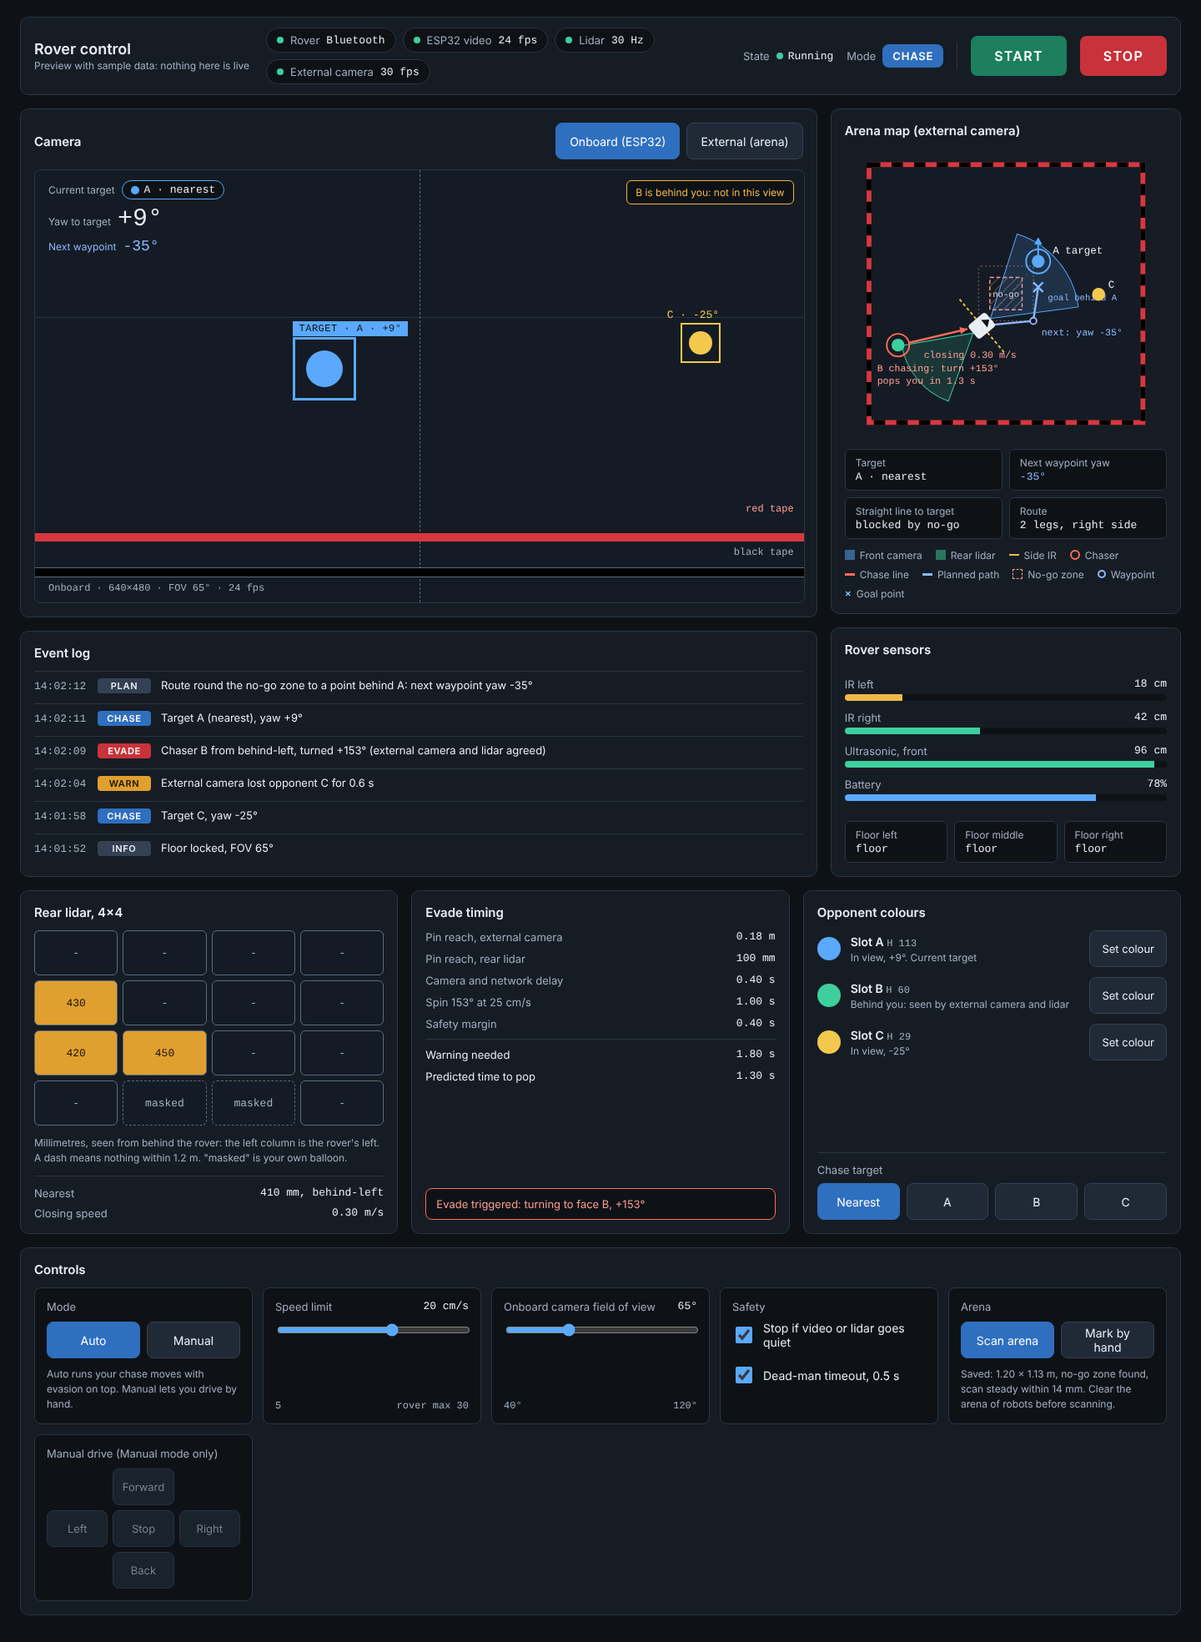
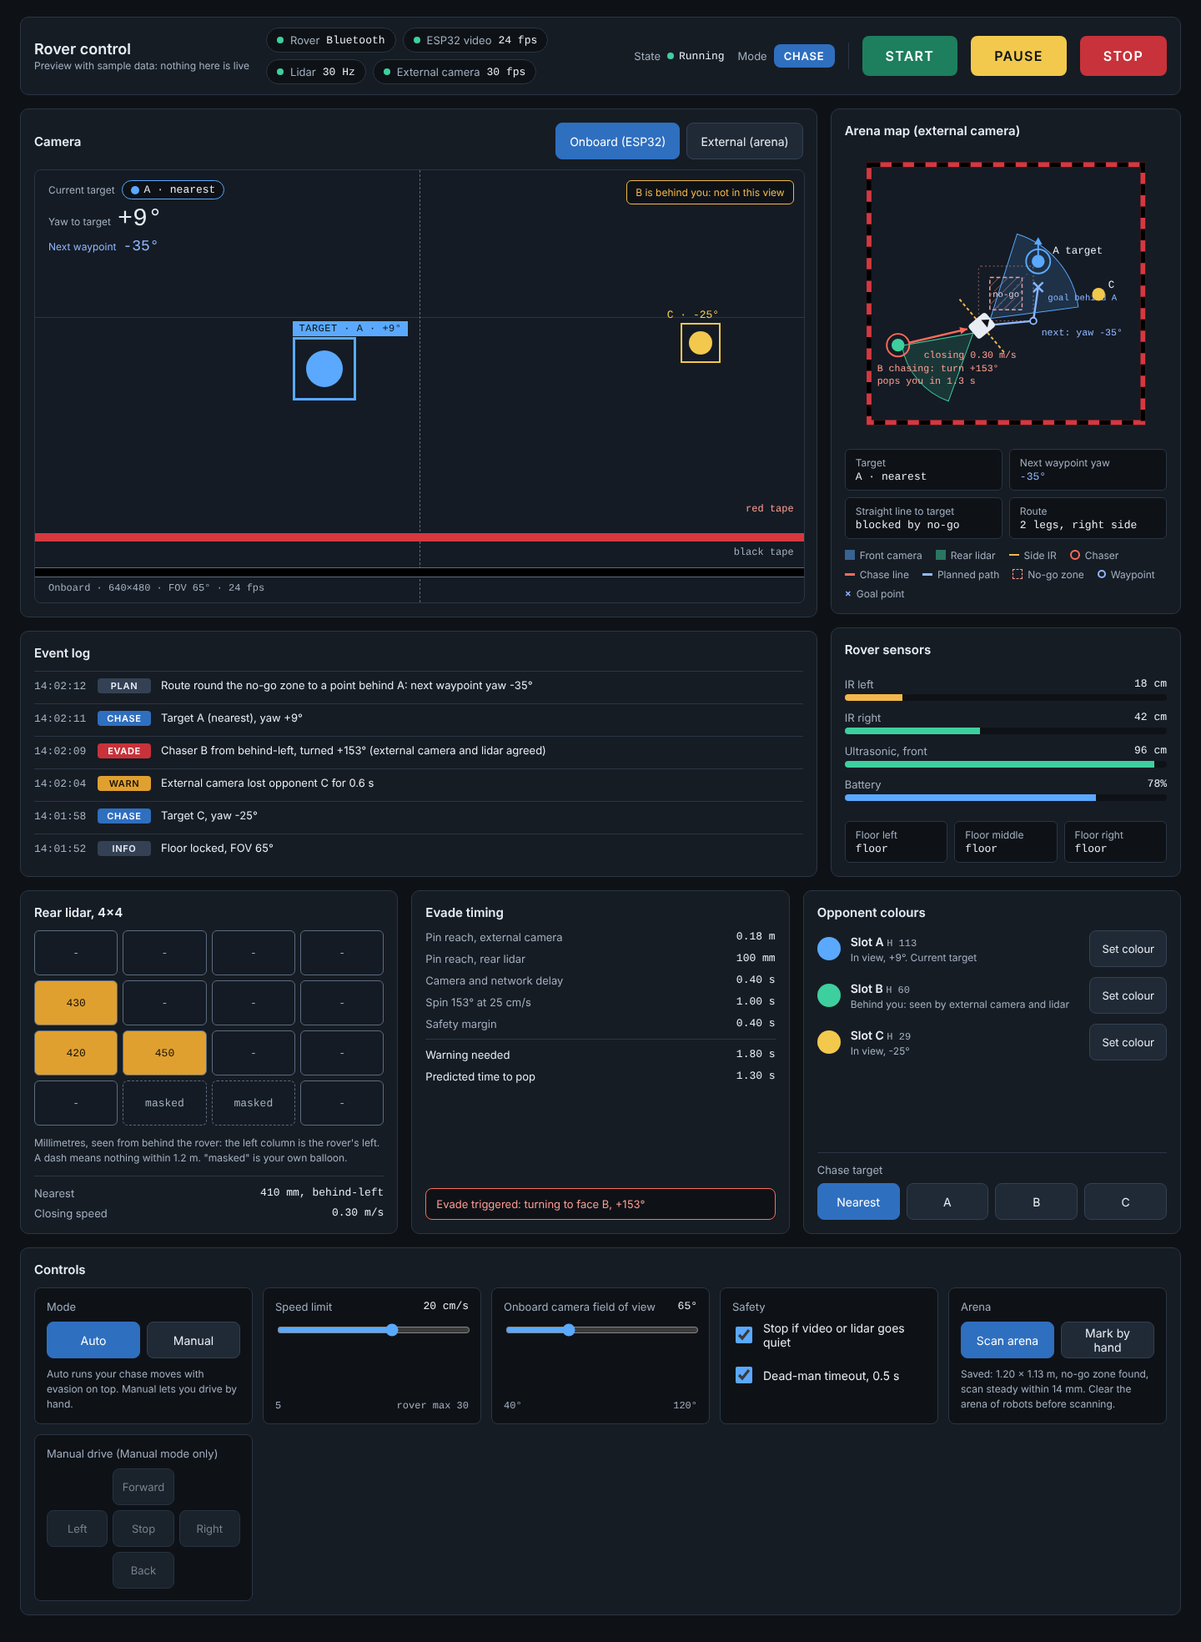
Fix three_calm pop (ignore parked/popped opponents on the lidar), stop when all opponents popped, add pause, hold-ground option, pose-lag compensation for the edge check
Claude-Session: https://claude.ai/code/session_012ck6Pv36Kb7NnuqWpJPnK7

Changed region(s): [[0.625, 0.0, 0.9062, 0.062], [0.3438, 0.031, 0.375, 0.062], [0.2812, 0.031, 0.3125, 0.062]]

diff --git a/evade.py b/evade.py
@@ -88,10 +88,15 @@ RING_AWAY_COS = 0.5       # ... or it is clearly moving AWAY from you (cos of th
 ESCAPE_NOGO_M = 0.09      # BOUNDARY ESCAPE: if the centre of the rover gets this close to the no-go zone (shoved by an opponent,
                           # or just drifting), stop whatever else it is doing and drive away from it. Top priority.
 ESCAPE_TAPE_M = 0.08      # ... the same for the tape boundary (distance from the centre to the inside edge of the tape)
+POSE_LAG_S = 0.2          # age of the camera's pose of the follower (image + processing): the boundary check looks this far ahead
 ESCAPE_RELEASE_M = 0.03   # it keeps escaping until it is this much further clear (no flip-flopping at the edge)
 ESCAPE_DRIVE = True       # when no opponent is close, drive away from the no-go zone / tape edge (no longer fights the defence)
+SOFT_NOGO_M = 0.30        # HOLD GROUND: while FACING an opponent, from this far out (centre to the no-go zone) ...
+SOFT_TAPE_M = 0.25        # ... or the tape, push back toward the opponent so it can't shove us over the edge
+HOLD_SPEED = 0            # cm/s of push at full depth (an opponent shoves at about 10 cm/s)
 ESCAPE_NUDGE = False      # True = while facing an opponent near an edge, also move forward/back away from it.
                           # Tested: it drops survival against a hunter from 12/12 to 5/12, so it stays off.
+ESCAPE_REVERSE_ONLY = False  # with ESCAPE_NUDGE: only back away from an edge (never drive TOWARD the opponent we are facing)
 ESCAPE_SPEED = 20         # cm/s used for the escape drive (and for the forward/back nudge while facing an opponent)
 TRACK_FACING = True       # while defending, keep FACING the opponent with continuous wheel commands (not discrete turns)
 TRACK_KP = 1.8            # turn rate (deg/s) per degree of bearing error
@@ -110,6 +115,10 @@ EXT_STALE_S = 0.5         # external data older than this (wall clock) is ignore
 
 MAX_SPEED_CM_S = 30.0     # GLOBAL SPEED CAP for the wheels, applied to EVERY motor command (your chase moves too).
                           # The rover itself tops out at 30. Change it live with set_max_speed(). Lower = safer.
+LIDAR_BACK_M = 0.05       # the lidar sits this far behind the rover's centre
+ALL_POPPED_CONFIRM_S = 1.5  # every opponent must stay gone this long before we believe the game is won and stop
+GHOST_LOST_M = 0.30       # an opponent that disappears from the camera within this of you was probably just popped
+LIDAR_MATCH_M = 0.30      # a lidar object within this of a tracked opponent's balloon IS that opponent
 LIDAR_VETO_EXTRA_M = 0.15  # a still lidar object only counts if the camera sees an opponent within
                           # PIN_FROM_BALLOON_M + BALLOON_BACK_M + this of you
 EVADE_SPEED = 25          # cm/s used for the evasive turn; never above MAX_SPEED_CM_S
@@ -317,23 +326,37 @@ class ExternalWatch:
         self.last_update_wall = None
         self._ring_until = -1e9
         self._active_until = {}                     # name -> time until which it counts as an ACTIVE opponent
+        self._status = {}                           # name -> "live" | "popped" (vanished right beside us) | "lost" (vanished far off)
+        self._gone_t = -1e9                         # when the last opponent vanished
+        self._ghosts = []                           # (x, y) of opponents that vanished right beside us: almost surely popped
 
     def update(self, follower, opponents, t, wall=None):
         """follower: {"x","y","yaw"(deg)} or None.  opponents: {name: (x, y)}.  t: seconds."""
         self.last_update_wall = time.time() if wall is None else wall
         for name in list(self._opp):
             if name not in opponents:
-                del self._opp[name]                       # lost: start its history afresh when it returns
+                h = self._opp.pop(name)                   # lost: start its history afresh when it returns
+                f = self._follower
+                self._gone_t = t
+                if h and f is not None and math.hypot(h[-1][1] - f["x"], h[-1][2] - f["y"]) <= GHOST_LOST_M:
+                    self._ghosts.append((h[-1][1], h[-1][2]))     # gone while we were on top of it: it was popped,
+                    self._status[name] = "popped"                 # but its body is still there for the lidar to see
+                else:
+                    self._status[name] = "lost"
         if follower is None:
             self._follower = None
             self._fol.clear()
             self._confirm = 0
             return self._decay(t)
         self._follower = follower
+        if self._ghosts:                                  # an opponent that is back in view near a ghost was not popped
+            self._ghosts = [g for g in self._ghosts
+                            if all(math.hypot(g[0] - o[0], g[1] - o[1]) > LIDAR_MATCH_M for o in opponents.values())]
         self._fol.append((t, follower["x"], follower["y"]))
         while self._fol and t - self._fol[0][0] > EXT_HISTORY_S:
             self._fol.popleft()
         for name, (x, y) in opponents.items():
+            self._status[name] = "live"
             h = self._opp.setdefault(name, deque())
             h.append((t, x, y))
             while h and t - h[0][0] > EXT_HISTORY_S:
@@ -410,6 +433,28 @@ class ExternalWatch:
             return False
         return any(math.hypot(h[-1][1] - f["x"], h[-1][2] - f["y"]) <= radius_m and t < self._active_until.get(n, -1e9)
                    for n, h in self._opp.items() if h)
+
+    def all_popped(self, t):
+        """True once EVERY opponent we have seen has vanished right beside us (popped) and none has been back in view for
+        ALL_POPPED_CONFIRM_S. Any one that vanished far off (maybe just hidden) or reappears makes it False again."""
+        return (bool(self._status) and not self._opp and all(s == "popped" for s in self._status.values())
+                and t - self._gone_t >= ALL_POPPED_CONFIRM_S)
+
+    def lidar_object_is_inactive(self, offset_deg, dist_mm, t):
+        """True if the thing the REAR LIDAR sees (bearing offset_deg from the rear axis, + = rover's left, dist_mm away) is
+        a tracked opponent that is NOT active (not seen moving lately): a parked or already popped opponent can't come at
+        us, and a noisy lidar slope against one is a false alarm. False when no opponent is tracked near that spot
+        (the camera may simply have lost it), so the lidar keeps its say."""
+        f = self._follower
+        if f is None:
+            return False
+        ang = math.radians(f["yaw"] + 180.0 - offset_deg)
+        r = dist_mm / 1000.0 + LIDAR_BACK_M
+        ox, oy = f["x"] + r * math.cos(ang), f["y"] + r * math.sin(ang)
+        near = [n for n, h in self._opp.items() if h and math.hypot(h[-1][1] - ox, h[-1][2] - oy) <= LIDAR_MATCH_M]
+        if near:
+            return all(t >= self._active_until.get(n, -1e9) for n in near)
+        return any(math.hypot(gx - ox, gy - oy) <= LIDAR_MATCH_M for gx, gy in self._ghosts)
 
     def any_within(self, radius_m):
         """True if any currently tracked opponent is within radius_m of the follower."""
@@ -645,6 +690,8 @@ class Brain:
         self.facing = FacingTracker(motors, clock) if (TRACK_FACING and motors is not None and hasattr(motors, "write")) else None
         self._last_mode = None
         self.defended_who = ""                               # last opponent we had to defend against (the planner retargets it)
+        self.paused = False                                  # the PAUSE button: wheels stopped, nothing else runs
+        self._park_t = -1e9
 
     def _drive_away(self, esc):
         """Boundary escape: move away from the no-go zone / tape by the shortest way, forwards or backwards."""
@@ -661,6 +708,21 @@ class Brain:
         else:
             steer = max(-6.0, min(6.0, 0.3 * e))
             m.write(sign * speed - steer, sign * speed + steer)
+
+    def _park(self, mode):
+        """Stand still (paused, or every opponent popped). The stop is re-sent about once a second, so a lost Bluetooth
+        packet can't leave the wheels turning."""
+        now = self.clock()
+        if self._last_mode != mode or now - self._park_t >= 1.0:
+            if self.facing is not None and self.facing.active:
+                self.facing.stop()
+            try:
+                self.evader.motors.stop()
+            except Exception:
+                pass
+            self._park_t = now
+        self._last_mode = mode
+        return mode
 
     def _halt(self):
         """Leaving 'chase' without a new move: stop, because chase() may have left the wheels running."""
@@ -686,13 +748,17 @@ class Brain:
 
     def step(self, yaw):
         now = self.clock()
+        if self.paused:
+            return self._park("paused")
         esc = self.guard.escape(now) if self.guard is not None else None
         lid = self.detector.state(now)
-        if (lid.active and lid.static_only and self.external is not None and self.external.alive(now)
-                and not self.external.any_within(PIN_FROM_BALLOON_M + BALLOON_BACK_M + LIDAR_VETO_EXTRA_M)):
-            lid = Threat()          # something sits close behind us but the camera sees no live opponent there:
-                                    # most likely an opponent that is already popped, or a stray object
+        if (lid.active and self.external is not None and self.external.alive(now) and lid.min_mm > POP_REACH_MM
+                and self.external.lidar_object_is_inactive(lid.offset_deg, lid.min_mm, now)):
+            lid = Threat()          # the camera says that object is an opponent that is parked or already popped: it can't
+                                    # pop us unless WE swing our balloon into its pin, and turning away is exactly that move
         threat = self.fuse(lid, self.external.state(now) if self.external else Threat())
+        if not threat.active and self.external is not None and self.external.all_popped(now):
+            return self._park("done")                      # every opponent is popped: the game is won, stand still
         facing_now = (threat.active and self.facing is not None and threat.source in ("external", "both")
                       and bool(threat.who))
         hunter_near = (esc is not None and self.external is not None
@@ -712,6 +778,12 @@ class Brain:
                 # an edge is near: keep facing the opponent but also back away from the edge along our own axis
                 nudge = (ESCAPE_SPEED * math.cos(math.radians(wrap(esc["away"] - esc["yaw"])))
                          if (esc is not None and ESCAPE_NUDGE) else 0.0)
+                if ESCAPE_REVERSE_ONLY:
+                    nudge = min(nudge, 0.0)
+                if HOLD_SPEED and self.guard is not None and hasattr(self.guard, "edge_push"):
+                    soft = self.guard.edge_push(now)               # near an edge with an opponent in our face: hold our ground
+                    if soft is not None:
+                        nudge += HOLD_SPEED * soft["depth"] * math.cos(math.radians(wrap(soft["away"] - soft["yaw"])))
                 self.facing.step(theta, now, nudge)
                 self._last_mode = "track"
                 return "track"

diff --git a/pipeline.py b/pipeline.py
@@ -50,6 +50,16 @@ class Pipeline:
         self.yaw_to_target = yaw if target_yaw == "same" else target_yaw
         self.publish(self.yaw_to_leader, self.yaw_to_target)
 
+    def pause(self):
+        self.brain.paused = True
+
+    def resume(self):
+        self.brain.paused = False
+
+    def toggle_pause(self):
+        self.brain.paused = not self.brain.paused
+        return self.brain.paused
+
     def on_yaw(self, yaw):
         self._set(yaw)
 
@@ -115,34 +125,50 @@ class Pipeline:
     def escape(self, now):
         """BOUNDARY ESCAPE: None, or {"away": heading in degrees that leads out of trouble, "yaw": our heading} when the
         rover is too close to the no-go zone or the tape. Needs the arena (arena.json), else it never triggers."""
+        return self._edge(now, evade.ESCAPE_NOGO_M, evade.ESCAPE_TAPE_M, True)
+
+    def edge_push(self, now):
+        """HOLD-GROUND zone: like escape() but starting further out (SOFT_*_M), and with "depth" 0..1 = how deep into that
+        zone we are. Used while facing an opponent that is shoving us toward an edge."""
+        return self._edge(now, evade.SOFT_NOGO_M, evade.SOFT_TAPE_M, False)
+
+    def _edge(self, now, nogo_m, tape_m, latch):
         if self.planner is None or self.pose is None or now - self.pose[3] > 0.6:
             return None
-        x, y, yaw, _ = self.pose
+        x, y, yaw, t_pose = self.pose
+        if self.motion is not None:                    # the camera pose is old (image + processing delay): where are we NOW?
+            left, right = self.motion()
+            lead = (now - t_pose) + evade.POSE_LAG_S
+            x += (left + right) / 200.0 * math.cos(math.radians(yaw)) * lead
+            y += (left + right) / 200.0 * math.sin(math.radians(yaw)) * lead
         p = np.array([x, y])
         arena = self.planner.arena
-        rel = evade.ESCAPE_RELEASE_M if self._escaping else 0.0
+        rel = evade.ESCAPE_RELEASE_M if (latch and self._escaping) else 0.0
         away = np.zeros(2)
         if arena.nogo:
             c = pl._closest_on_boundary(arena.nogo, p)
             inside = pl.inside(arena.nogo, p)
             d = 0.0 if inside else float(np.linalg.norm(p - c))
-            thr = evade.ESCAPE_NOGO_M + rel
+            thr = nogo_m + rel
             if d < thr:
                 v = (p - np.mean(pl.ccw(arena.nogo), axis=0)) if inside else (p - c)
                 n = float(np.linalg.norm(v))
                 away += (v / n if n > 1e-9 else np.array([1.0, 0.0])) * (thr - d)
         c = pl._closest_on_boundary(arena.poly, p)
         d = float(np.linalg.norm(p - c)) * (1.0 if pl.inside(arena.poly, p) else -1.0)
-        thr = evade.ESCAPE_TAPE_M + rel
+        thr = tape_m + rel
         if d < thr:
             v = (p - c) if d >= 0 else (c - p)                # either way this points back into the arena
             n = float(np.linalg.norm(v))
             away += (v / n if n > 1e-9 else np.array([1.0, 0.0])) * (thr - d)
         if float(np.linalg.norm(away)) < 1e-9:
-            self._escaping = False
+            if latch:
+                self._escaping = False
             return None
-        self._escaping = True
-        return {"away": math.degrees(math.atan2(away[1], away[0])), "yaw": yaw}
+        if latch:
+            self._escaping = True
+        return {"away": math.degrees(math.atan2(away[1], away[0])), "yaw": yaw,
+                "depth": min(1.0, float(np.linalg.norm(away)) / max(nogo_m, tape_m))}
 
     def on_state(self, st, now):
         st = self._filter_yaw(st, now)

diff --git a/tests/test_units.py b/tests/test_units.py
@@ -3,7 +3,7 @@ tests/test_units.py - assert-based checks of the pure logic and the single-purpo
 
     python tests/test_units.py          (or run everything with: python run_tests.py)
 """
-import itertools
+import types, itertools
 import math
 import os
 import socket
@@ -330,6 +330,44 @@ def face_sim(circle_deg_s, secs=8.0, theta0=60.0, noise=4.0, lat=0.2):
     return np.mean(errs[-40:])
 check("facing tracker: turns to face a still opponent from 60 deg off (final error under 8 deg)", face_sim(0.0) < 8, "%.1f deg" % face_sim(0.0))
 check("facing tracker: keeps within 20 deg of an opponent circling at 30 deg/s with 4 deg of noise and 0.2 s delay", face_sim(30.0) < 20, "%.1f deg" % face_sim(30.0))
+
+# ---- pause button + stop when every opponent is popped ----
+class StopMotors:
+    def __init__(self): self.stops = 0; self.writes = []
+    def stop(self): self.stops += 1
+    def write(self, l, r, *a): self.writes.append((l, r))
+_clk = [0.0]
+_sm = StopMotors()
+_calls = []
+_ew = ev.ExternalWatch()
+_br = ev.Brain(ev.ChaserDetector(4), types.SimpleNamespace(motors=_sm, ready=lambda now: True), lambda y: _calls.append(y),
+               external=_ew, clock=lambda: _clk[0])
+_fol = {"x": 0.3, "y": 0.3, "yaw": 0.0}
+def _feed(t, opps):
+    _clk[0] = t; _ew.update(_fol, opps, t, wall=t)
+for i in range(10): _feed(i / 30, {"A": (0.9, 0.3)})
+_br.step(0.0); n0 = len(_calls)
+_br.paused = True
+modes = [_br.step(0.0) for _ in range(5)]
+check("pause: the brain stands still and never calls chase() while paused", modes == ["paused"] * 5 and len(_calls) == n0 and _sm.stops >= 1, f"{modes[:2]}, {_sm.stops} stops")
+_br.paused = False; _br.step(0.0)
+check("pause: resuming calls chase() again", len(_calls) == n0 + 1)
+# the only opponent vanishes right beside us = popped
+t = 1.0
+for i in range(3): _feed(t + i / 30, {"A": (0.4, 0.3)})
+t += 0.2
+_feed(t, {})
+check("all popped: not declared at once (must stay gone a while)", not _ew.all_popped(t))
+_feed(t + 2.0, {})
+check("all popped: declared after it stays gone", _ew.all_popped(t + 2.0))
+_clk[0] = t + 2.0
+check("all popped: the brain parks (mode 'done') and stops the wheels", _br.step(0.0) == "done" and _sm.stops >= 2)
+_feed(t + 2.1, {"A": (0.9, 0.3)})
+check("all popped: an opponent that reappears cancels it", not _ew.all_popped(t + 4.0))
+_ew2 = ev.ExternalWatch()
+for i in range(10): _ew2.update(_fol, {"A": (1.2, 0.3)}, i / 30, wall=i / 30)    # a far-off opponent that vanishes may only be hidden
+_ew2.update(_fol, {}, 1.0, wall=1.0)
+check("all popped: an opponent lost far away does not count as popped", not _ew2.all_popped(10.0))
 
 print("\nSUMMARY: %d/%d passed" % (sum(1 for r_ in results if r_[1]), len(results)))
 failed = [r_ for r_ in results if not r_[1]]

diff --git a/tracker.py b/tracker.py
@@ -557,7 +557,7 @@ def pick_camera(max_index=8):
     print("No more cameras." if found else "No cameras found.")
 
 
-def main(camera=None, flip=None, on_yaw=None, on_state=None, on_draw=None):
+def main(camera=None, flip=None, on_yaw=None, on_state=None, on_draw=None, on_key=None, status=None):
     cap, size = open_camera(camera, flip)
     tr = Tracker(size=size)
     print(f"Camera {size[0]}x{size[1]}, assumed FOV {tr.fov_deg:.0f} deg")
@@ -607,10 +607,16 @@ def main(camera=None, flip=None, on_yaw=None, on_state=None, on_draw=None):
         cv2.putText(frame, txt, (10, 30), cv2.FONT_HERSHEY_SIMPLEX, 0.8, (0, 255, 0), 2, cv2.LINE_AA)
         cv2.putText(frame, f"FOV {tr.fov_deg:.0f} | slot {active['slot']} (1/2/3) | click balloon = set colour | M mask",
                     (10, size[1] - 12), cv2.FONT_HERSHEY_SIMPLEX, 0.5, (200, 200, 200), 1, cv2.LINE_AA)
+        if status:
+            msg = status()                    # e.g. "PAUSED (press P to resume)"
+            if msg:
+                cv2.putText(frame, msg, (10, 100), cv2.FONT_HERSHEY_SIMPLEX, 0.9, (80, 80, 255), 2, cv2.LINE_AA)
         cv2.imshow("tracker", frame)
         key = cv2.waitKey(1) & 0xFF
         if key == 27:
             break
+        if on_key and key != 255:
+            on_key(key)                       # e.g. follow.py: P = pause / resume the rover
         if key == ord("m"):
             show_mask = not show_mask
             if not show_mask:

diff --git a/follow.py b/follow.py
@@ -131,6 +131,13 @@ def main(argv=None):
             lambda vals, t: pipe.on_lidar(vals, t, tap.forward_mm_s, tap.rotating, time.time()))
         print(f"Listening for lidar on UDP port {args.lidar_port}")
 
+    def _on_key(key):
+        if key in (ord("p"), ord(" ")):                     # PAUSE / RESUME: the rover stands still while paused
+            print("PAUSED: rover stopped" if pipe.toggle_pause() else "RESUMED")
+
+    def _status():
+        return "PAUSED (P or space = resume)" if brain.paused else ("ALL OPPONENTS POPPED: stopped" if brain._last_mode == "done" else "")
+
     threads = [threading.Thread(target=brain.run, args=(stop, lambda: yaw_to_leader), daemon=True)]
     if receiver or ext:
         def watchdog():
@@ -162,6 +169,7 @@ def main(argv=None):
             import tracker
             tracker.main(args.camera, True if args.flip else None,
                          on_yaw=None if planner else _publish, on_state=on_state,
+                         on_key=_on_key, status=_status,
                          on_draw=(lambda frame, tr: plan.draw_plan(frame, tr, planner)) if planner else None)
     finally:
         stop.set()

diff --git a/simulate.py b/simulate.py
@@ -140,6 +140,10 @@ class Sim:
             self.recorder.add(self)
         if w.follower.popped:
             raise SimEnd("follower popped")
+        if all(o.popped for o in w.opps):                             # the game is won: give the rover 3 s to notice and stop
+            self.all_popped_t = getattr(self, "all_popped_t", t)
+            if t - self.all_popped_t >= 3.0:
+                raise SimEnd("all opponents popped")
         if self.scn.get("until") and self.scn["until"](self):
             raise SimEnd("goal reached")
 

diff --git a/tests/fastsim.py b/tests/fastsim.py
@@ -99,6 +99,10 @@ class FastSim(S.Sim):
         self._log(t)
         if w.follower.popped:
             raise S.SimEnd("follower popped")
+        if all(o.popped for o in w.opps):                             # the game is won: give the rover 3 s to notice and stop
+            self.all_popped_t = getattr(self, "all_popped_t", t)
+            if t - self.all_popped_t >= 3.0:
+                raise S.SimEnd("all opponents popped")
         if self.scn.get("until") and self.scn["until"](self):
             raise S.SimEnd("goal reached")
 

diff --git a/tests/test_follow.py b/tests/test_follow.py
@@ -41,7 +41,7 @@ def run_follow(argv, states_fn=None, esp32_fn=None, secs=2.5, arena=True):
     follow.stop.clear(); follow.yaw_to_leader = follow.yaw_to_target = None
     evade.set_max_speed(30)
 
-    def vision_main(camera, flip, on_yaw=None, on_state=None, on_draw=None):
+    def vision_main(camera, flip, on_yaw=None, on_state=None, on_draw=None, on_key=None, status=None):
         t0 = time.time()
         while time.time() - t0 < secs:
             t = time.time() - t0
